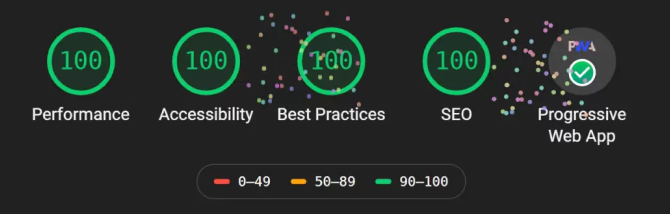
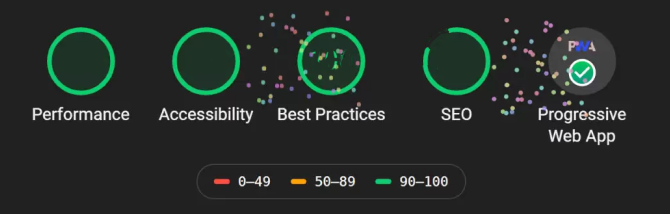
remove waterfall section

diff --git a/sites/kit.svelte.dev/src/routes/+page.svelte b/sites/kit.svelte.dev/src/routes/+page.svelte
@@ -6,7 +6,6 @@
 	import Grow from './Grow.svelte';
 	import LanguageTools from './LanguageTools.svelte';
 	import Lighthouse from './Lighthouse.svelte';
-	import Waterfall from './Waterfall.svelte';
 </script>
 
 <svelte:head>
@@ -104,7 +103,6 @@ npm run dev -- --open</code
 <div class="lighthouse">
 	<div class="section">
 		<Lighthouse />
-		<Waterfall />
 	</div>
 </div>
 

diff --git a/sites/kit.svelte.dev/src/routes/Lighthouse.svelte b/sites/kit.svelte.dev/src/routes/Lighthouse.svelte
@@ -1,5 +1,5 @@
 <script>
-	import Lighthouse from './lighthouse3.png';
+	import Lighthouse from './lighthouse.png';
 </script>
 
 <div class="container">
